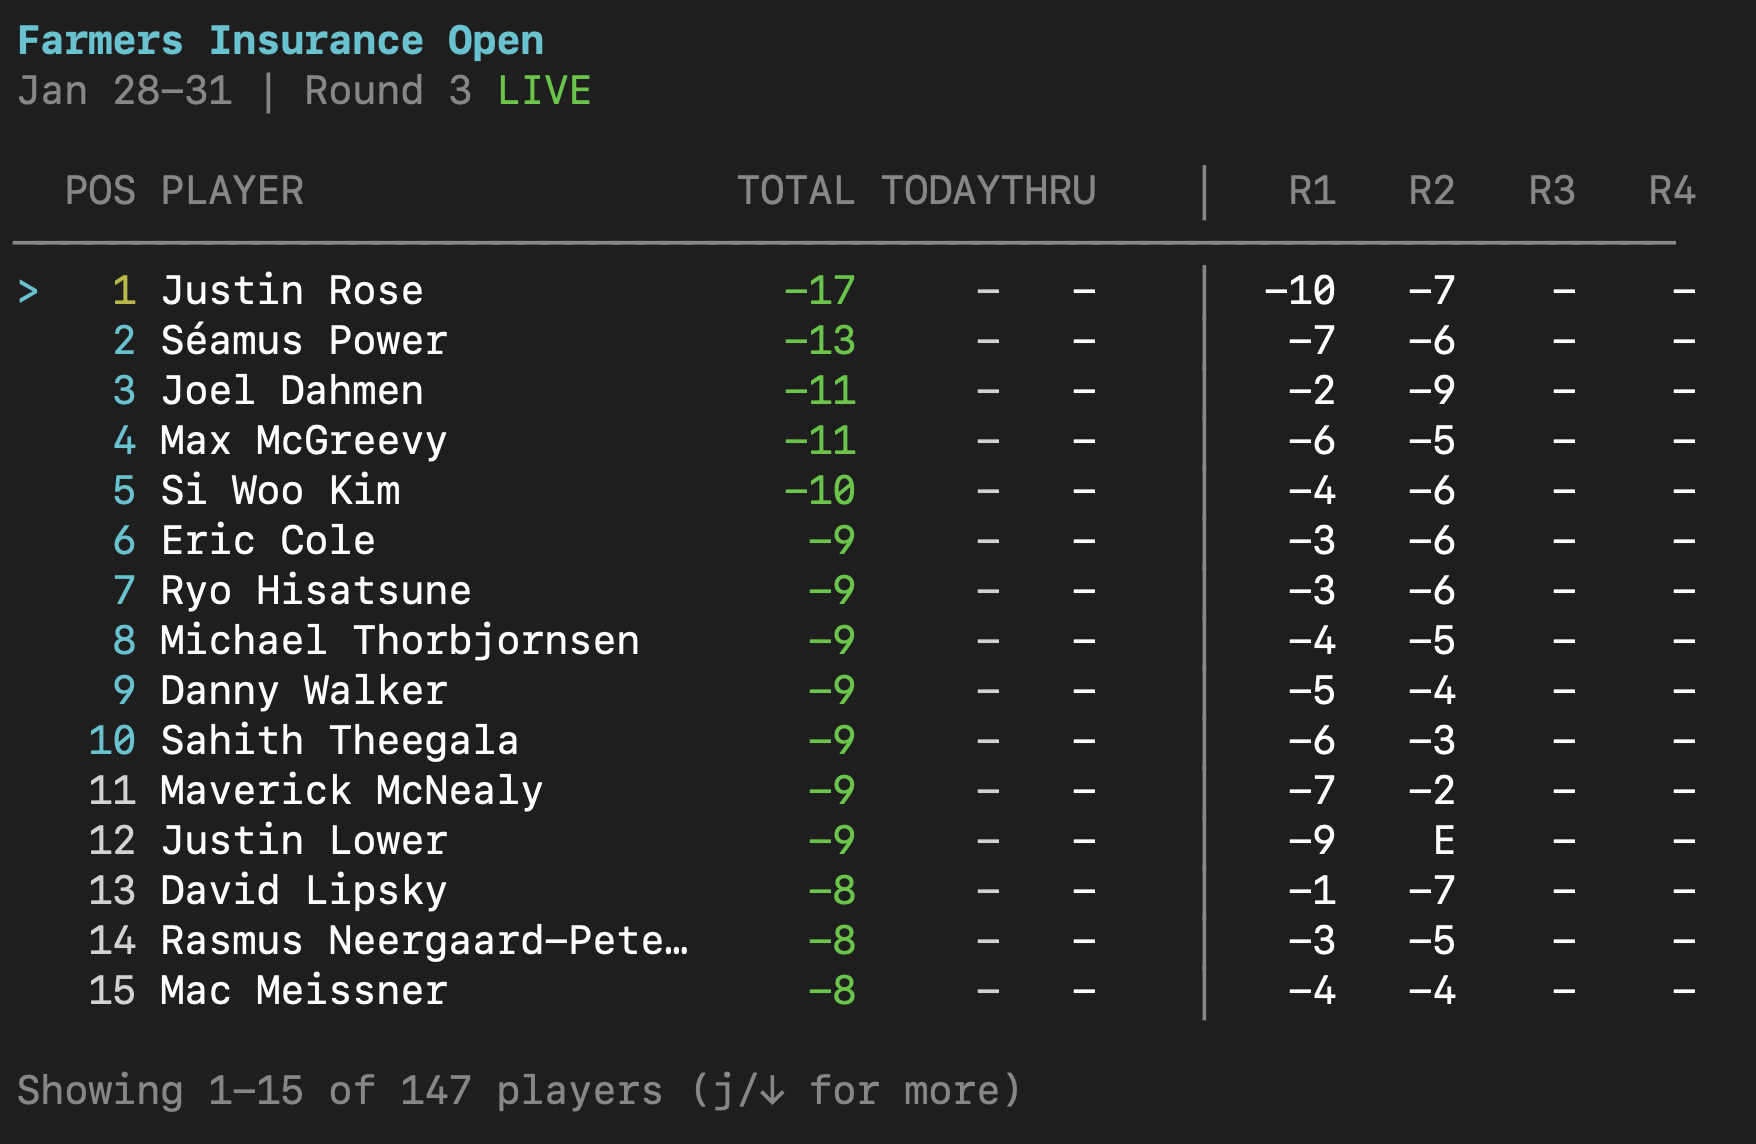
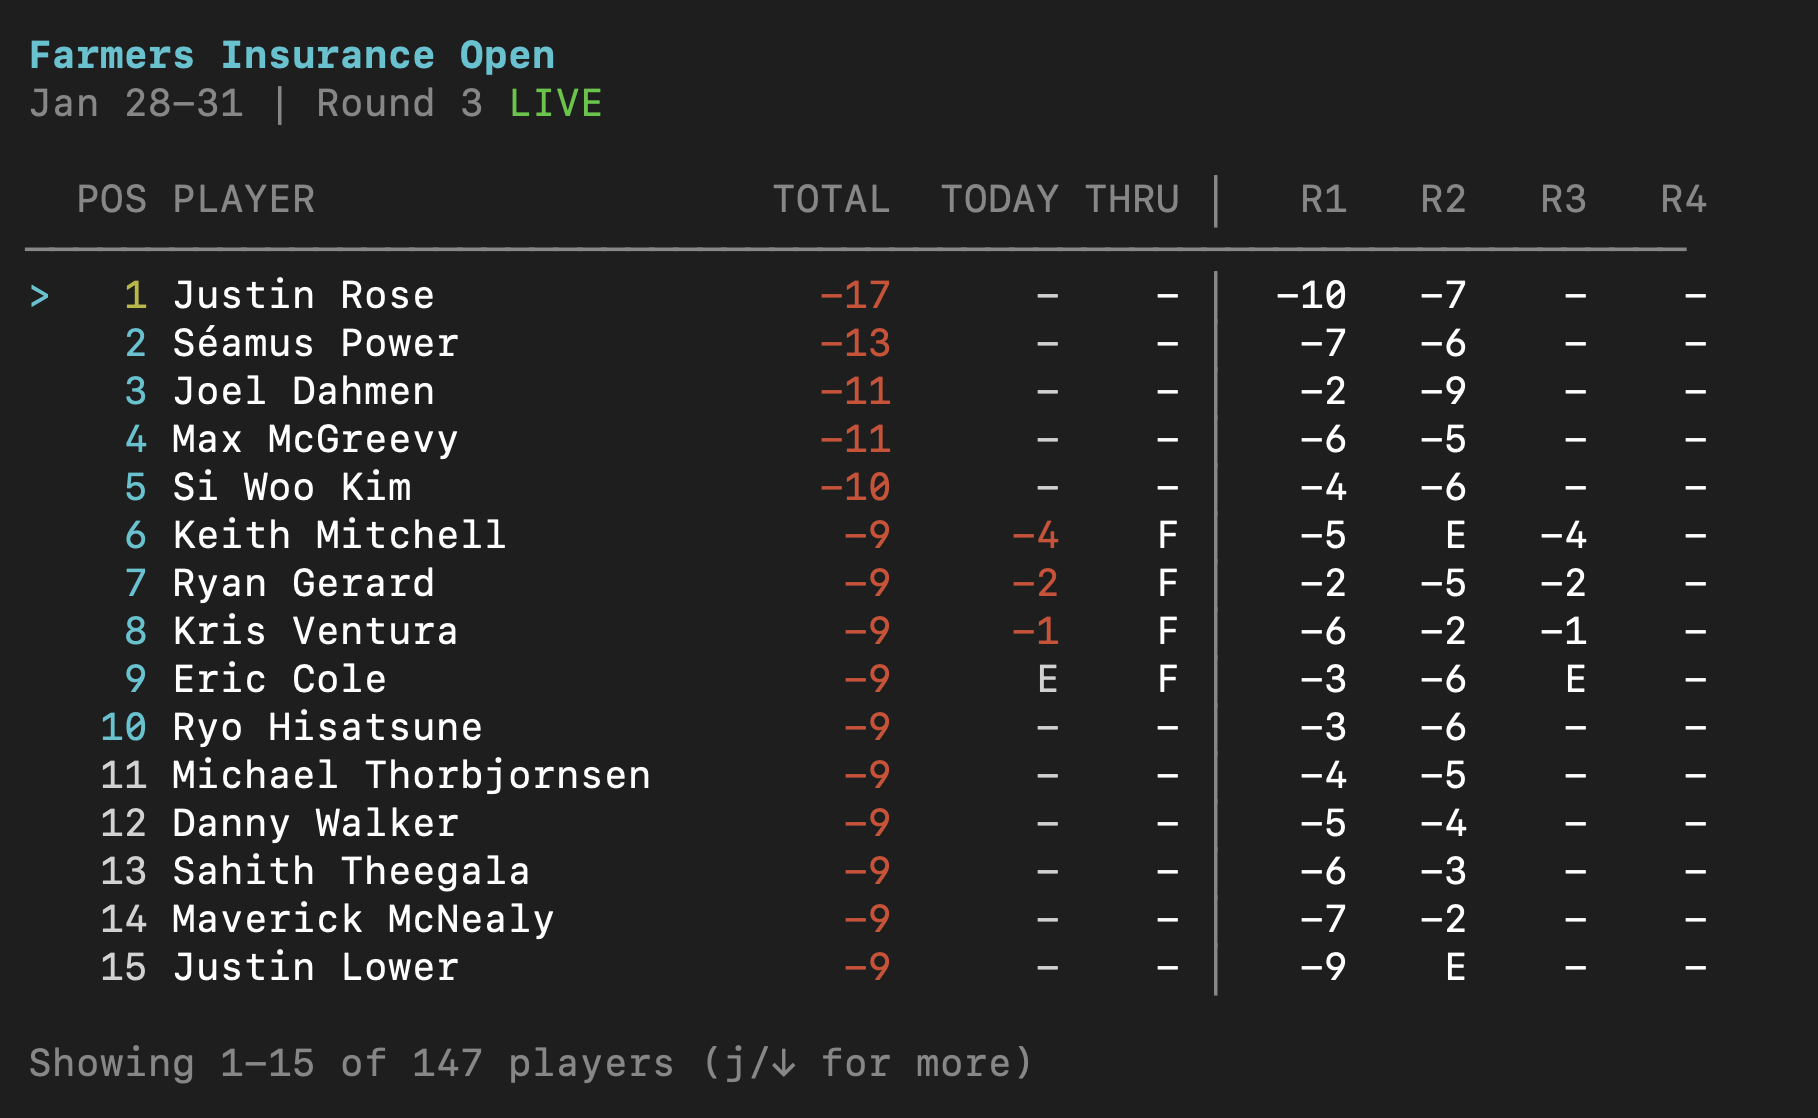
Refine UI alignment and score colors
- Fix column alignment in leaderboard (TOTAL, TODAY, THRU spacing)
- Use red for under par scores (golf convention)
- Simplify scorecard to red for birdies/eagles, white otherwise
- Remove triangle score indicators
- Update screenshots

diff --git a/src/components/ScorecardDetail.tsx b/src/components/ScorecardDetail.tsx
@@ -4,7 +4,6 @@ import type { PlayerScorecard, RoundScorecard, HoleScore } from '../api/types.js
 import { Spinner } from './Spinner.js';
 import { LiveIndicator } from './LiveIndicator.js';
 import { useBlink } from '../hooks/useBlink.js';
-import { getScoreSymbol } from '../utils/theme.js';
 
 interface ScorecardDetailProps {
   scorecard: PlayerScorecard | null;
@@ -20,9 +19,7 @@ function formatToPar(toPar: number | null): string {
 }
 
 function getScoreColor(toPar: number): string {
-  if (toPar < 0) return 'green';
-  if (toPar > 0) return 'red';
-  return 'white';
+  return toPar < 0 ? 'red' : 'white';
 }
 
 function EighteenHoleCard({
@@ -86,7 +83,6 @@ function EighteenHoleCard({
         {[1,2,3,4,5,6,7,8,9].map(h => {
           const hole = frontNine.find(ho => ho.holeNumber === h);
           const isCurrentHole = currentHole === h;
-          const scoreSymbol = hole ? getScoreSymbol(hole.toPar) : null;
 
           if (isCurrentHole && !hole) {
             return <Box key={h} width={cellWidth} justifyContent="center"><Text color="yellow">{blinkVisible ? '·' : ' '}</Text></Box>;
@@ -95,7 +91,6 @@ function EighteenHoleCard({
           return (
             <Box key={h} width={cellWidth} justifyContent="center">
               <Text color={hole ? getScoreColor(hole.toPar) : 'white'}>{hole ? hole.strokes : '-'}</Text>
-              {scoreSymbol && <Text color={scoreSymbol.color}>{scoreSymbol.symbol.charAt(0)}</Text>}
             </Box>
           );
         })}
@@ -103,7 +98,6 @@ function EighteenHoleCard({
         {[10,11,12,13,14,15,16,17,18].map(h => {
           const hole = backNine.find(ho => ho.holeNumber === h);
           const isCurrentHole = currentHole === h;
-          const scoreSymbol = hole ? getScoreSymbol(hole.toPar) : null;
 
           if (isCurrentHole && !hole) {
             return <Box key={h} width={cellWidth} justifyContent="center"><Text color="yellow">{blinkVisible ? '·' : ' '}</Text></Box>;
@@ -112,7 +106,6 @@ function EighteenHoleCard({
           return (
             <Box key={h} width={cellWidth} justifyContent="center">
               <Text color={hole ? getScoreColor(hole.toPar) : 'white'}>{hole ? hole.strokes : '-'}</Text>
-              {scoreSymbol && <Text color={scoreSymbol.color}>{scoreSymbol.symbol.charAt(0)}</Text>}
             </Box>
           );
         })}
@@ -138,9 +131,7 @@ function RoundCard({ round, playerName, currentHole, blinkVisible }: { round: Ro
             </Box>
           )}
           <Text bold>
-            <Text color={round.toPar !== null && round.toPar < 0 ? 'green' : round.toPar !== null && round.toPar > 0 ? 'red' : 'white'}>
-              {formatToPar(round.toPar)}
-            </Text>
+            {formatToPar(round.toPar)}
             <Text dimColor> ({round.totalStrokes ?? '-'}{isLive ? '*' : ''})</Text>
           </Text>
         </Box>

diff --git a/src/components/PlayerCard.tsx b/src/components/PlayerCard.tsx
@@ -1,7 +1,7 @@
 import React from 'react';
 import { Box, Text } from 'ink';
 import type { LeaderboardEntry } from '../api/types.js';
-import { getScoreColor, getPositionColor, getScoreSymbol } from '../utils/theme.js';
+import { getScoreColor, getPositionColor } from '../utils/theme.js';
 import { truncate, padString } from '../utils/format.js';
 
 interface PlayerCardProps {
@@ -19,7 +19,6 @@ export function PlayerCard({ entry, isSelected, showRounds = true }: PlayerCardP
   const posColor = getPositionColor(position);
   const scoreColor = getScoreColor(scoreNum);
   const todayColor = getScoreColor(todayNum);
-  const todaySymbol = getScoreSymbol(todayNum);
 
   const selector = isSelected ? '>' : ' ';
   const name = truncate(player.name, 22);
@@ -31,14 +30,9 @@ export function PlayerCard({ entry, isSelected, showRounds = true }: PlayerCardP
       <Text color={dimmed ? 'gray' : posColor}>{padString(position, 4, 'right')}</Text>
       <Text> </Text>
       <Text dimColor={dimmed}>{padString(name + amateur, 24)}</Text>
-      <Text color={dimmed ? 'gray' : scoreColor}>{padString(score, 5, 'right')}</Text>
-      <Text color={dimmed ? 'gray' : todayColor}>{padString(today, 6, 'right')}</Text>
-      <Text dimColor={dimmed}>{padString(thru, 4, 'right')}</Text>
-      <Box width={3}>
-        {todaySymbol && !dimmed && (
-          <Text color={todaySymbol.color}>{todaySymbol.symbol}</Text>
-        )}
-      </Box>
+      <Text color={dimmed ? 'gray' : scoreColor}>{padString(score, 6, 'right')}</Text>
+      <Text color={dimmed ? 'gray' : todayColor}>{padString(today, 7, 'right')}</Text>
+      <Text dimColor={dimmed}>{padString(thru, 5, 'right')}</Text>
       {showRounds && rounds.length > 0 && (
         <>
           <Text dimColor> │</Text>

diff --git a/src/components/Leaderboard.tsx b/src/components/Leaderboard.tsx
@@ -86,10 +86,9 @@ export function Leaderboard({ leaderboard, isLoading, error, selectedIndex, tour
         <Text dimColor>{'POS'.padStart(4)}</Text>
         <Text dimColor> </Text>
         <Text dimColor>{'PLAYER'.padEnd(24)}</Text>
-        <Text dimColor>{'TOTAL'.padStart(5)}</Text>
-        <Text dimColor>{'TODAY'.padStart(6)}</Text>
-        <Text dimColor>{'THRU'.padStart(4)}</Text>
-        <Text dimColor>{'   '}</Text>
+        <Text dimColor>{'TOTAL'.padStart(6)}</Text>
+        <Text dimColor>{'TODAY'.padStart(7)}</Text>
+        <Text dimColor>{'THRU'.padStart(5)}</Text>
         {showRounds && (
           <>
             <Text dimColor> │</Text>

diff --git a/src/utils/theme.ts b/src/utils/theme.ts
@@ -21,8 +21,8 @@ export function getThemeColors(): ThemeColors {
 }
 
 export function getScoreColor(score: number): string {
-  if (score < 0) return 'green';
-  if (score > 0) return 'red';
+  if (score < 0) return 'red';
+  if (score > 0) return 'green';
   return 'white';
 }
 

diff --git a/README.md b/README.md
@@ -19,7 +19,7 @@ Real-time tournament scores from PGA Tour, LPGA, DP World Tour, and Champions To
 ![Leaderboard](screenshots/leaderboard.png)
 
 ### Hole-by-Hole Scorecards
-Detailed scorecards with eagle, birdie, and bogey indicators.
+Detailed scorecards with red highlighting for birdies and eagles.
 
 ![Scorecard](screenshots/scorecard.png)
 
